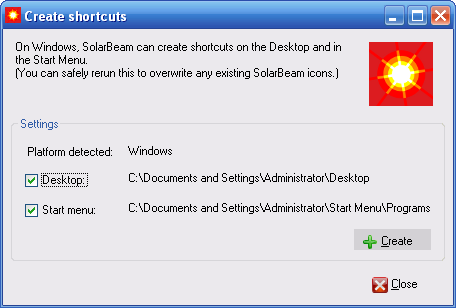
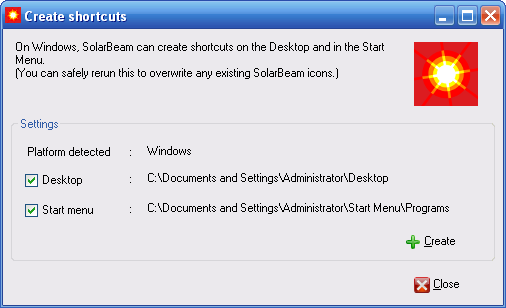
add help item

diff --git a/solarbeam/GuiWidgets/GuiMenu.cs b/solarbeam/GuiWidgets/GuiMenu.cs
@@ -127,13 +127,20 @@ namespace SolarbeamGui
 		public static ToolStripItem GetHelp()
 		{
 			ToolStripMenuItem help = Widgets.GetToolStripMenuColumn("&Help");
+						
+			ToolStripMenuItem desc = Widgets.GetToolStripMenuItem(
+					Controller.Id.MENUDESC_ACTION,
+					"&How does this work?",
+			        "app-desc.png");
 			
+			ToolStripSeparator sep = Widgets.GetToolStripSeparator();
+
 			ToolStripMenuItem shortcut = Widgets.GetToolStripMenuItem(
 					Controller.Id.MENUSHORTCUT_ACTION,
 					"&Create shortcuts...",
 			        "shortcut-install.png");
 			
-			ToolStripSeparator sep = Widgets.GetToolStripSeparator();
+			ToolStripSeparator sep2 = Widgets.GetToolStripSeparator();
 			
 			ToolStripMenuItem about = Widgets.GetToolStripMenuItem(
 					Controller.Id.MENUABOUT_ACTION,
@@ -141,8 +148,10 @@ namespace SolarbeamGui
 			        "app-about.png");
 			
 			help.DropDownItems.AddRange(new ToolStripItem[] {
-				shortcut,
+				desc,
 				sep,
+				shortcut,
+				sep2,
 				about});
 			
 			return help;

diff --git a/solarbeam/GuiWidgets/GuiShortcutInstall.cs b/solarbeam/GuiWidgets/GuiShortcutInstall.cs
@@ -98,7 +98,7 @@ namespace SolarbeamGui
 					Widgets.GetLabel("Platform detected"),
 					Widgets.GetLabel(":"),
 					plat_in},
-				new float[] {12F, 2F, 31F});
+				new float[] {10F, 2F, 33F});
 			
 			Control desktop = Widgets.GetLaidOut(
 				new Control[] {
@@ -110,7 +110,7 @@ namespace SolarbeamGui
 					Widgets.GetTextBox(
 						Controller.Id.SHORTCUT_DESKTOP,
 						string.Empty)},
-				new float[] {12F, 2F, 31F});
+				new float[] {10F, 2F, 33F});
 			
 			Control startmenu = Widgets.GetLaidOut(
 				new Control[] {
@@ -122,7 +122,7 @@ namespace SolarbeamGui
 					Widgets.GetTextBox(
 						Controller.Id.SHORTCUT_STARTMENU,
 						string.Empty)},
-				new float[] {12F, 2F, 31F});
+				new float[] {10F, 2F, 33F});
 			
 			Control buttons = Widgets.GetLaidOut(
 				new Control[] {

diff --git a/solarbeam/GuiLogic/Controller.cs b/solarbeam/GuiLogic/Controller.cs
@@ -32,6 +32,7 @@ namespace SolarbeamGui
 			MENURESETFORM_ACTION,
 			MENURENDER_ACTION,
 			MENUSAVEIMAGE_ACTION,
+			MENUDESC_ACTION,
 			MENUSHORTCUT_ACTION,
 			MENUABOUT_ACTION,
 			LOCATION,
@@ -259,6 +260,8 @@ namespace SolarbeamGui
 			} else if (reg_rev[button] == Id.MENUSAVEIMAGE_ACTION) {
 				((ToolStripMenuItem) button).Click += new EventHandler(SaveImage);
 			// Help
+			} else if (reg_rev[button] == Id.MENUDESC_ACTION) {
+				((ToolStripMenuItem) button).Click += new EventHandler(ShowHelpDesc);
 			} else if (reg_rev[button] == Id.MENUSHORTCUT_ACTION) {
 				((ToolStripMenuItem) button).Click += new EventHandler(ShowShortcutDialog);
 			} else if (reg_rev[button] == Id.MENUABOUT_ACTION) {

diff --git a/solarbeam/GuiLogic/Handlers.cs b/solarbeam/GuiLogic/Handlers.cs
@@ -5,9 +5,11 @@ using System;
 using System.Collections;
 using System.Collections.Generic;
 using System.ComponentModel;
+using System.Diagnostics;
 using System.Drawing;
 using System.Windows.Forms;
 
+using LibSolar;
 using LibSolar.Formatting;
 using LibSolar.Graphing;
 using LibSolar.Types;
@@ -254,6 +256,11 @@ namespace SolarbeamGui
 					grbit.SaveBitmap(bitmap, filename);
 				}
 			}
+		}
+		
+		private static void ShowHelpDesc(object sender, EventArgs args)
+		{
+			Process.Start(Constants.URL_HELP);
 		}
 		
 		private static void ShowShortcutDialog(object sender, EventArgs args)

diff --git a/solarbeam/GuiWidgets/GuiAbout.cs b/solarbeam/GuiWidgets/GuiAbout.cs
@@ -6,6 +6,7 @@ using System.ComponentModel;
 using System.Drawing;
 using System.Windows.Forms;
 
+using LibSolar;
 using LibSolar.Util;
 
 namespace SolarbeamGui
@@ -107,7 +108,7 @@ namespace SolarbeamGui
 			                  Platform.GetPlatform() + "}");
 			s += Controller.AsmInfo.GetAtt("Description") + "\n\n";
 			
-			s += "http://solarbeam.sourceforge.net\n\n";
+			s += Constants.APP_URL + "\n\n";
 			
 			s += Controller.AsmInfo.GetAtt("Copyright") + "\n\n";
 			

diff --git a/libsolar/Constants.cs b/libsolar/Constants.cs
@@ -18,5 +18,8 @@ namespace LibSolar
 		
 		public const string GUI_FILENAME = "solarbeam.exe";
 		public const string ICON_FILENAME = "icon.ico";
+		
+		public const string APP_URL = "http://solarbeam.sourceforge.net/";
+		public const string URL_HELP = APP_URL + "explanation.php";
 	}
 }
